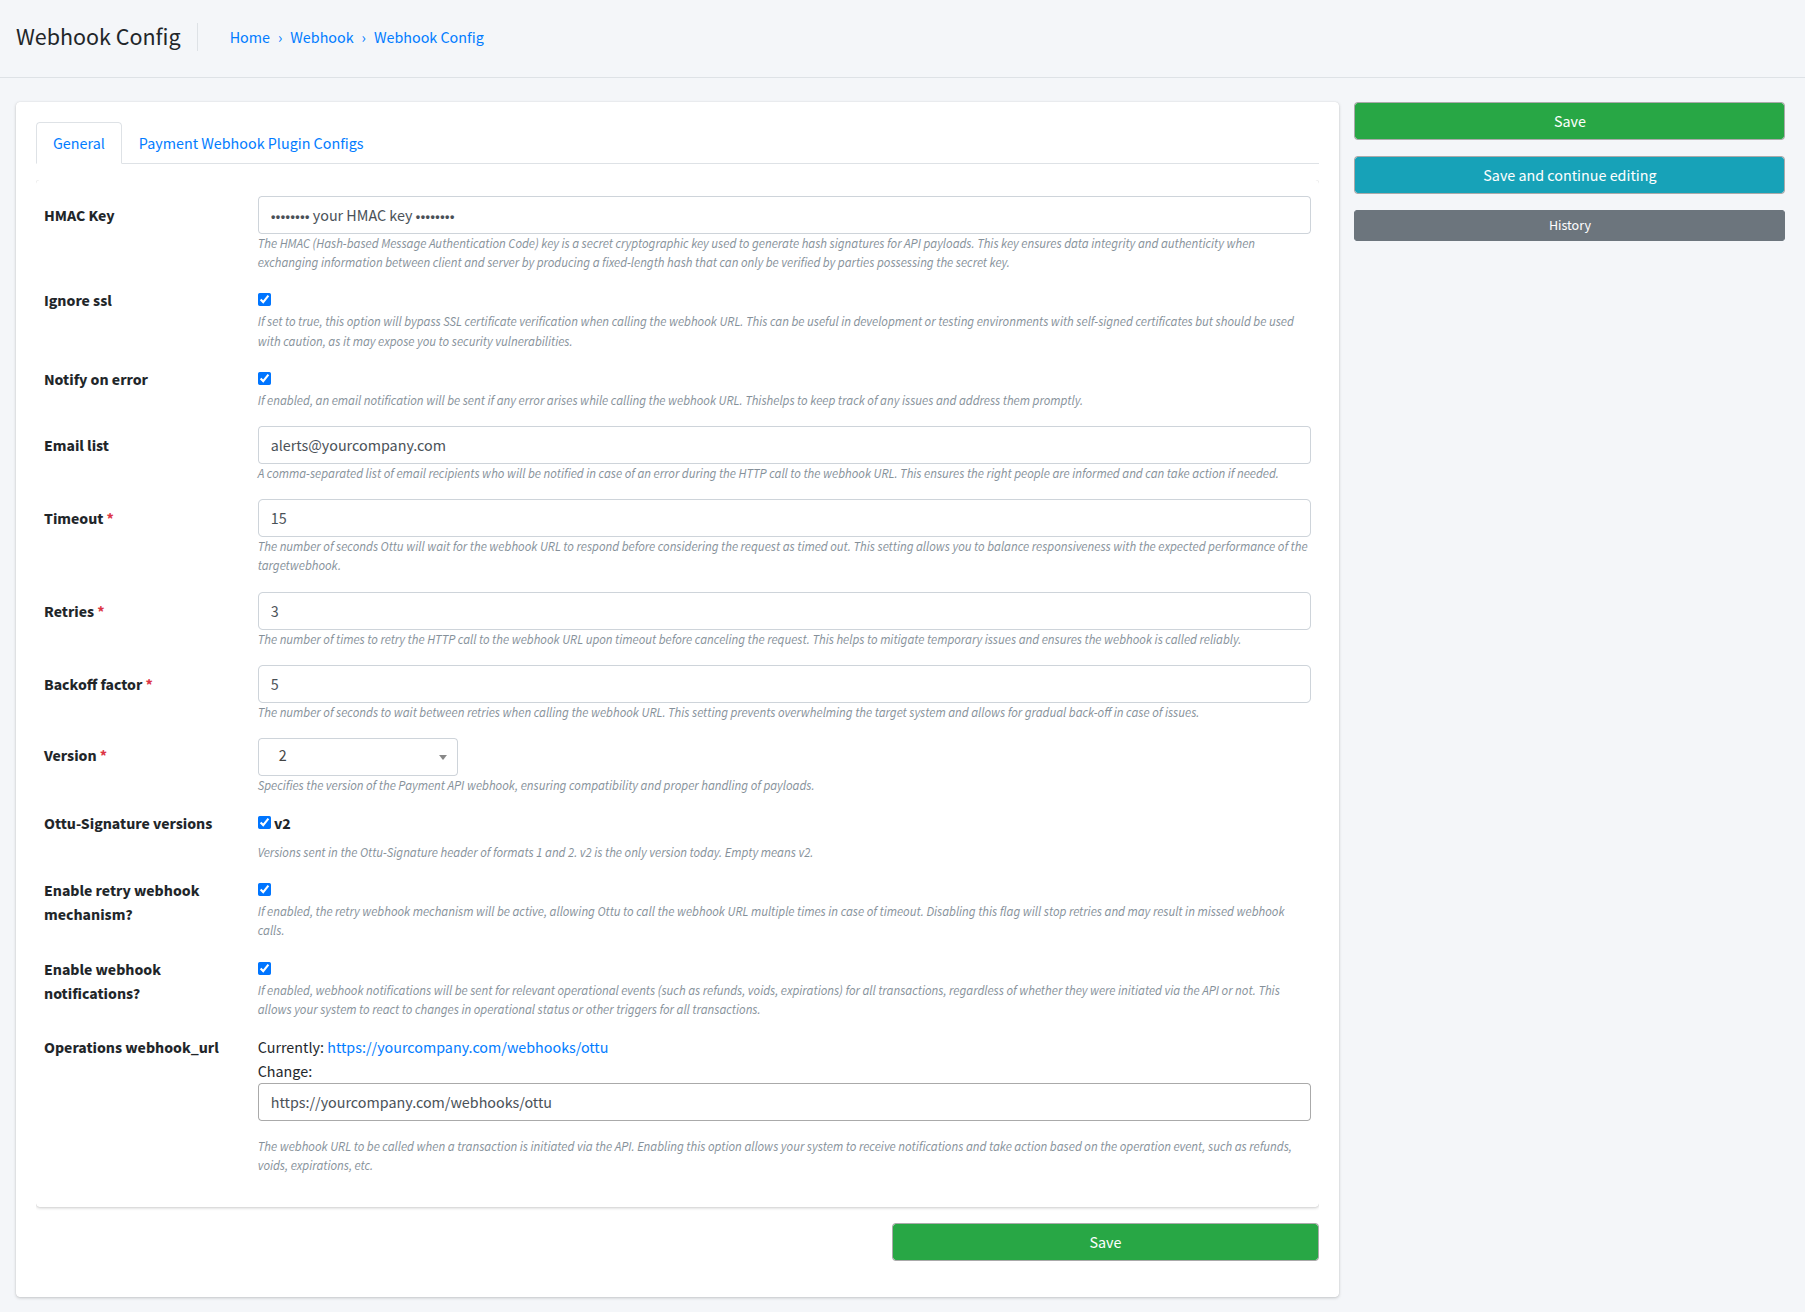
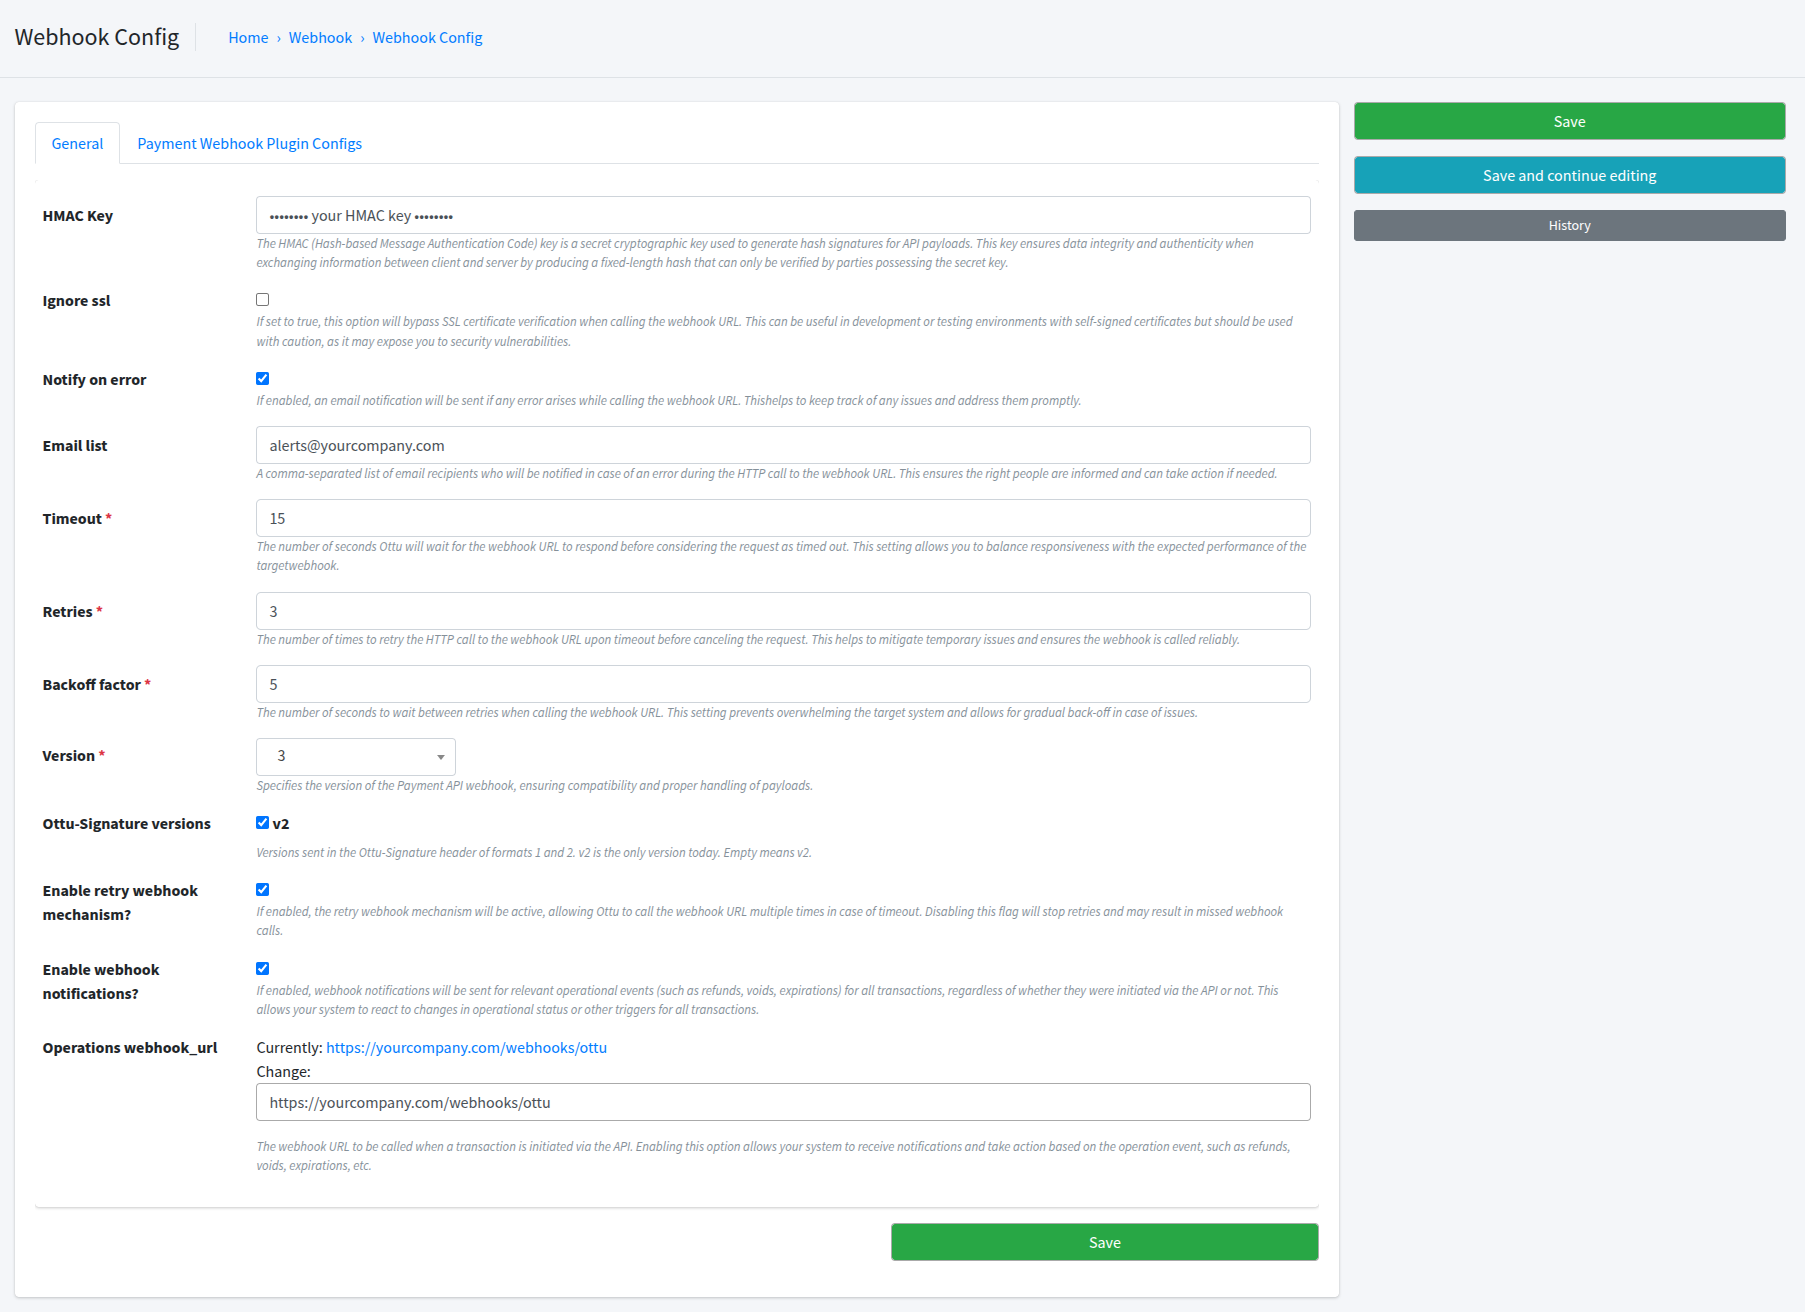
fix(docs): review round 1 findings on #245 (#160903)
- Screenshot: Version 3 and Ignore ssl off, as the walkthrough says (set in the
  page only, nothing saved; secrets masked).
- SignatureLab: a non-numeric t is named, an empty key or no Web Crypto shows a
  message instead of an unhandled rejection, a late HMAC result never overwrites
  a newer one, and the URL and id are shell-quoted in the curl.
- md-export: template literals are rendered as the site renders them (escapes,
  the base-URL constants; an unknown expression fails the build), folded and
  literal front matter values, numeric path prefixes.
- llms-txt: the root page links /intro.md, and the hand-off file is removed
  after use so it is not published.
- CSS: text on an orange fill stays dark in dark mode (contrast).
- Operations and PSQ legacy entries say 'Looking for v2?' (they have no v1);
  webhooks overview label 'Overview'; 'about 42 hours' and 'all 15 events'.

diff --git a/src/components/SignatureLab/index.tsx b/src/components/SignatureLab/index.tsx
@@ -21,6 +21,16 @@ const VECTOR = {
   header: "t=1792417440,v2=b230321937edb54b51b91f65d544aa8039e413f0a8e034e59acb9b13e11e7d4e",
 };
 
+/** Why HMAC cannot run here, or null when it can: Web Crypto needs a secure context, and HMAC a non-empty key. */
+function cannotSign(key: string): string | null {
+  if (typeof crypto === "undefined" || !crypto.subtle) return "Your browser blocks Web Crypto on this page (it needs HTTPS or localhost).";
+  if (!key) return "Enter the HMAC key.";
+  return null;
+}
+
+/** Quote a value for a single-quoted shell argument. */
+const shellQuote = (value: string) => value.replace(/'/g, "'\\''");
+
 async function hmacHex(key: string, message: string): Promise<string> {
   const encoder = new TextEncoder();
   const cryptoKey = await crypto.subtle.importKey(
@@ -52,7 +62,10 @@ async function check(header: string, body: string, key: string, now: number): Pr
   if (!parts.t || !parts.v2) {
     return [{ ok: false, text: `The header needs both t and v2; found ${Object.keys(parts).join(", ") || "nothing"}. Format 3 sends t=…,v2=….` }];
   }
+  if (!/^\d+$/.test(parts.t)) return [{ ok: false, text: `t is "${parts.t}", not a Unix time in seconds. A receiver rejects it.` }];
   steps.push({ ok: true, text: `Read t = ${parts.t} and v2 by name.` });
+  const problem = cannotSign(key);
+  if (problem) return [...steps, { ok: false, text: problem }];
   const age = Math.abs(now - Number(parts.t));
   steps.push(
     age <= TOLERANCE_SECONDS
@@ -87,22 +100,42 @@ function Lab(): React.JSX.Element {
   const [useClock, setUseClock] = useState(true);
   const [url, setUrl] = useState("http://localhost:8000/webhooks/ottu");
   const [signature, setSignature] = useState("");
+  const [signError, setSignError] = useState("");
   const [steps, setSteps] = useState<Step[]>([]);
 
+  // Each effect ignores a result that arrives after its inputs changed, so a slow HMAC never overwrites a newer one.
   useEffect(() => {
     if (mode !== "sign") return;
-    hmacHex(key, `${t}.${body}`).then(setSignature);
+    let current = true;
+    const problem = cannotSign(key);
+    if (problem) {
+      setSignature("");
+      setSignError(problem);
+      return;
+    }
+    hmacHex(key, `${t}.${body}`)
+      .then((value) => current && (setSignature(value), setSignError("")))
+      .catch((error: Error) => current && (setSignature(""), setSignError(error.message)));
+    return () => {
+      current = false;
+    };
   }, [mode, key, t, body]);
 
   useEffect(() => {
     if (mode !== "check") return;
+    let current = true;
     const now = useClock ? Date.now() / 1000 : Number(parseHeader(header).t ?? 0);
-    check(header, body, key, now).then(setSteps);
+    check(header, body, key, now)
+      .then((result) => current && setSteps(result))
+      .catch((error: Error) => current && setSteps([{ ok: false, text: error.message }]));
+    return () => {
+      current = false;
+    };
   }, [mode, header, body, key, useClock]);
 
   const signedHeader = `t=${t},v2=${signature}`;
   const curl = useMemo(() => {
-    const quoted = body.replace(/'/g, "'\\''");
+    const quoted = shellQuote(body);
     const id = (() => {
       try {
         return (JSON.parse(body) as { id?: string }).id ?? "";
@@ -111,10 +144,10 @@ function Lab(): React.JSX.Element {
       }
     })();
     return [
-      `curl -i -X POST '${url}' \\`,
+      `curl -i -X POST '${shellQuote(url)}' \\`,
       `  -H 'Content-Type: application/json' \\`,
       `  -H 'Ottu-Signature: ${signedHeader}' \\`,
-      ...(id ? [`  -H 'Idempotency-Key: ${id}' \\`] : []),
+      ...(id ? [`  -H 'Idempotency-Key: ${shellQuote(String(id))}' \\`] : []),
       `  --data-binary '${quoted}'`,
     ].join("\n");
   }, [url, signedHeader, body]);
@@ -162,7 +195,7 @@ function Lab(): React.JSX.Element {
             </span>
           </label>
           <p className={styles.label}>Ottu-Signature</p>
-          <pre className={styles.out}>{signedHeader}</pre>
+          {signError ? <p className={`${styles.steps} ${styles.fail}`}>{signError}</p> : <pre className={styles.out}>{signedHeader}</pre>}
           <label className={styles.label}>
             Your receiver's URL <span className={styles.hint}>to test it with a signed request</span>
             <input className={styles.input} value={url} onChange={(event) => setUrl(event.target.value)} spellCheck={false} />

diff --git a/scripts/md-export.ts b/scripts/md-export.ts
@@ -35,10 +35,22 @@ function frontMatter(source: string): { data: Record<string, string>; body: stri
   const match = source.match(/^---\r?\n([\s\S]*?)\r?\n---\r?\n/);
   if (!match) return { data: {}, body: source };
   const data: Record<string, string> = {};
-  for (const line of match[1].split(/\r?\n/)) {
+  const lines = match[1].split(/\r?\n/);
+  lines.forEach((line, index) => {
     const kv = line.match(/^([A-Za-z_]+):\s*(.*)$/);
-    if (kv) data[kv[1]] = kv[2].replace(/^["']|["']$/g, "").trim();
-  }
+    if (!kv) return;
+    let value = kv[2].trim();
+    // A folded (>) or literal (|) block: the indented lines that follow are the value.
+    if (/^[>|][+-]?$/.test(value)) {
+      const block: string[] = [];
+      for (const next of lines.slice(index + 1)) {
+        if (!/^\s+\S/.test(next)) break;
+        block.push(next.trim());
+      }
+      value = block.join(" ");
+    }
+    data[kv[1]] = value.replace(/^["']|["']$/g, "").trim();
+  });
   return { data, body: source.slice(match[0].length) };
 }
 
@@ -46,6 +58,8 @@ function routeOf(file: string, slug?: string, id?: string): string {
   const rel = path.relative(DOCS, file).replace(/\.(md|mdx)$/, "").split(path.sep);
   // An `id` in the front matter replaces the file name in the route (the API pages: x.api.mdx, id: x).
   if (id && !slug) rel[rel.length - 1] = id;
+  // Docusaurus drops a numeric prefix ("01-intro") from every path segment.
+  for (let i = 0; i < rel.length; i += 1) rel[i] = rel[i].replace(/^\d+[-_.]/, "");
   if (rel[rel.length - 1] === "index") rel.pop();
   const dir = rel.slice(0, -1).join("/");
   if (slug) return slug.startsWith("/") ? slug.replace(/\/?$/, "/") : `/${dir ? `${dir}/` : ""}${slug}/`;
@@ -174,6 +188,28 @@ function readTag(text: string, at: number) {
 /** Components imported from src/diagrams on the page being converted (set per page in toMarkdown). */
 let diagramNames = new Set<string>();
 
+/** The string a `{\`...\`}` template literal renders: escapes resolved, the known constants substituted. */
+function templateLiteral(code: string): string {
+  const host = OTTU_CONNECT_BASE_URL.replace("https://", "");
+  let out = "";
+  for (let i = 0; i < code.length; i += 1) {
+    const ch = code[i];
+    if (ch === "\\" && i + 1 < code.length) {
+      const next = code[i + 1];
+      out += next === "n" ? "\n" : next === "t" ? "\t" : next;
+      i += 1;
+    } else if (ch === "$" && code[i + 1] === "{") {
+      const end = code.indexOf("}", i);
+      const expr = code.slice(i + 2, end).trim();
+      if (/^OTTU_(CONNECT|DEV)_BASE_URL$/.test(expr)) out += OTTU_CONNECT_BASE_URL;
+      else if (/^OTTU_(CONNECT|DEV)_BASE_URL\.replace\(["']https:\/\/["'],\s*["']["']\)$/.test(expr)) out += host;
+      else throw new Error(`md-export: unknown expression \${${expr}} in a CodeBlock; add it to templateLiteral()`);
+      i = end;
+    } else out += ch;
+  }
+  return out;
+}
+
 const CODE_BLOCK = /<CodeBlock([^>]*)>\s*\{`([\s\S]*?)`\}\s*<\/CodeBlock>/g;
 
 function prose(text: string, route: string): string {
@@ -248,7 +284,7 @@ function toMarkdown(body: string, route: string): string {
   body = body.replace(CODE_BLOCK, (_m, attrs: string, code: string) => {
     const lang = attrs.match(/language=["']([^"']+)["']/)?.[1] ?? "";
     const title = attrs.match(/title=["']([^"']+)["']/)?.[1];
-    const text = code.replace(/\$\{OTTU_(CONNECT|DEV)_BASE_URL\}/g, OTTU_CONNECT_BASE_URL).replace(/\\`/g, "`");
+    const text = templateLiteral(code);
     return `\n\`\`\`${lang}${title ? ` title="${title}"` : ""}\n${text.replace(/^\n/, "").replace(/\s+$/, "")}\n\`\`\`\n`;
   });
   // Split on fenced code (``` or ~~~, any indent); fences are copied as written.

diff --git a/scripts/llms-txt.ts b/scripts/llms-txt.ts
@@ -39,7 +39,8 @@ function walk(dir: string, found: string[] = []): string[] {
 
 function pageOf(outDir: string, file: string): Page {
   const markdown = fs.readFileSync(file, "utf8");
-  const route = `/${path.relative(outDir, path.dirname(file)).split(path.sep).join("/")}/`;
+  const rel = path.relative(outDir, path.dirname(file)).split(path.sep).join("/");
+  const route = rel ? `/${rel}/` : "/";
   const title = markdown.match(/^#\s+(.+)$/m)?.[1].trim() ?? route;
   // The first paragraph after the title: one line a reader can choose by.
   const body = markdown.replace(/^#\s+.+$/m, "");
@@ -85,3 +86,5 @@ fs.writeFileSync(path.join(OUT, "llms.txt"), lines.join("\n"));
 const full = pages.map((page) => `<!-- ${SITE}${page.route} -->\n\n${page.markdown.trim()}\n`).join("\n---\n\n");
 fs.writeFileSync(path.join(OUT, "llms-full.txt"), full);
 console.log(`llms.txt: ${pages.length} pages`);
+// The meta file is a hand-off between the two scripts, not a page: do not publish it.
+fs.rmSync(META_FILE, { force: true });

diff --git a/sidebars.ts b/sidebars.ts
@@ -138,7 +138,7 @@ const sidebars: SidebarsConfig = {
                 },
                 {
                   type: "link",
-                  label: "Looking for v1 and v2?",
+                  label: "Looking for v2?",
                   href: "/developers/payments/psq/legacy",
                 },
               ],
@@ -529,7 +529,7 @@ const sidebars: SidebarsConfig = {
             },
             {
               type: "link",
-              label: "Looking for v1 and v2?",
+              label: "Looking for v2?",
               href: "/developers/operations/legacy",
             },
           ],
@@ -672,7 +672,7 @@ const sidebars: SidebarsConfig = {
             {
               type: "doc",
               id: "developers/webhooks/index",
-              label: "Overview & Setup",
+              label: "Overview",
             },
             {
               type: "doc",

diff --git a/src/css/custom.css b/src/css/custom.css
@@ -139,7 +139,8 @@ html[data-theme="dark"] {
   --ifm-color-info: #0b82be;
   --ifm-color-info-darkest: #e5e7eb;
   --ifm-color-info-contrast-foreground: #e5e7eb;
-  --ifm-color-primary-contrast-foreground: #e5e7eb;
+  /* Text on an orange fill stays dark in both themes: light text on #f27e20 is under 4.5:1. */
+  --ifm-color-primary-contrast-foreground: #1a1a1a;
   --ifm-font-color-secondary: #d1d5dc;
 }
 
